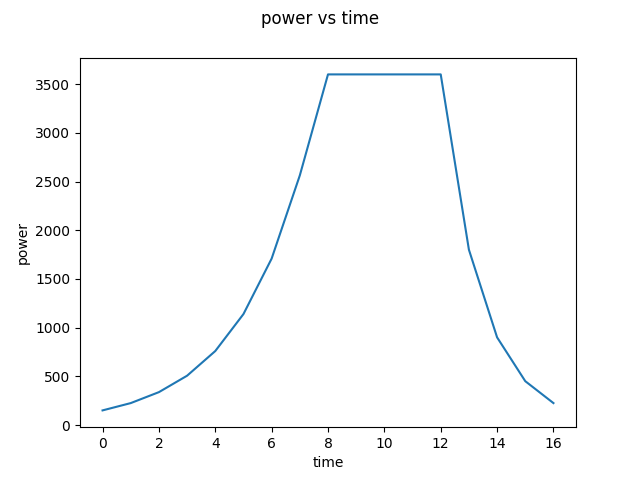
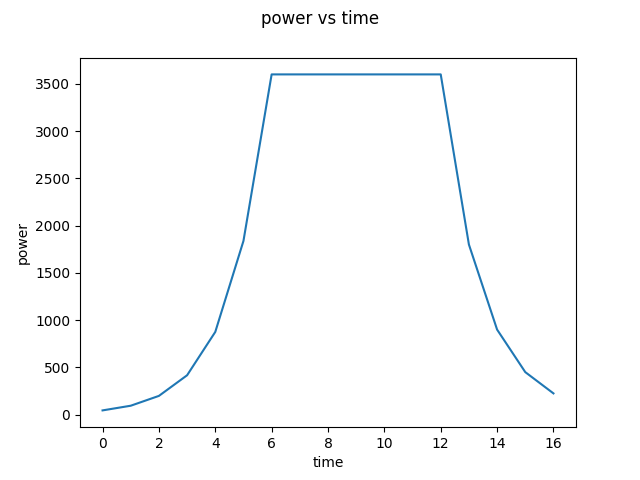
change battery models

diff --git a/del.py b/del.py
@@ -1,16 +1,34 @@
-import matplotlib.pyplot as pt
+import matplotlib.pyplot as plt
 import numpy as np
 import scipy.integrate as sp_int
 
 
-def plot(ys,xs,name,y_name,x_name='time'):
-    pt.plot(ys,xs)
-    pt.xlabel(x_name)
-    pt.ylabel(y_name)
-    pt.suptitle(f'{y_name} vs {x_name}')
-    pt.savefig(name,fmt='png')
-    pt.clf()
-    return
+def plot(xs,ys,x_name='Time',vlines = None):
+    num = len(ys)//2
+    (fig,axs) = plt.subplots(num,num)
+    i = 0
+    j = 0
+    for y,name in ys:
+        if i >= num:
+            i = 0
+            j+=1
+        axs[i,j].plot(xs,y)
+        if not vlines == None:
+            for v in vlines:
+                axs[i,j].axvline(v,linestyle='dotted',color='r')
+        axs[i,j].set_title(f'{name} vs {x_name}')
+        axs[i,j].set(xlabel=x_name,ylabel=name)
+        i+=1
+    # for a in axs.flat:
+        # a.set(xlabel=x_name)
+        
+    # pt.plot(xs,ys)
+    # pt.xlabel(x_name)
+    # pt.ylabel(y_name)
+    # pt.suptitle(f'{y_name} vs {x_name}')
+    # pt.savefig(name,fmt='png')
+    # pt.clf()
+    return plt
 def f(i,v):
     return i*v
 def charge(current,voltage,time): # returns (power, cap)
@@ -25,18 +43,28 @@ def update(c,v,soc,p,t):
     currs.append(c)
     return
 
-rate = 0.5
-ramp_rate = 0.5
-max_curr = 15 # amp
-min_curr = 0.03 * max_curr
-t_max = 1.5 * 60
-max_volt = 240
-time = list(map(lambda x: 0.5*x,list(range(0,4))))
-max_cap = max_curr * t_max
-time_step = 1   # minute
-t = 0
+
+# https://batteryuniversity.com/learn/article/electric_vehicle_ev
+rate = 0.1
+curr_steps = 4
+curr = 15 # amp
+min_curr = 2
+# t_max = 1.5
+max_volt = 230
+max_cap = 30 * 1000 # kwh
+# time_step = 0.9   # minute
+cutoff_soc = 0.75
+
+ramp_up_delay = 3 # time steps
+rampup_time = 5 # time stemps
+
+# time = t_max//time_step
+time = 100
+time = [x for x in range(0,int(time))]
 
 
+ramp_volts = max_volt/rampup_time
+print(f'ramp_volts: {ramp_volts}')
 
 SOCs = []
 ps  =[]
@@ -44,70 +72,68 @@ volts = []
 currs = []
 ts = []
 SOC = 0
-i = 1
-v = 10
+i = curr
+v = 5
+time_slots = []
 
+# =============== first phase ==============
 # charge
+print('\delay PHASE')
+# ramp up delay
+j = 0
+while j < ramp_up_delay:# and SOC < 0.3:
+    t = time.pop(0) # pop a time step
+    (power,cap) = charge(i,v,t)
+    SOC += (cap/max_cap)
+    update(i,v,SOC,power,t)
+    print(f'V: {v} I: {i} SOC:{int(SOC*100)}%')
+    j += 1
+    t = time.pop(0)
+
+print('\nramp up PHASE')
+# first phase CC (ramp up -- increase volts)
+j = 0
+while j < rampup_time:# and SOC < 0.45:
+    (power,cap) = charge(i,v,t)
+    SOC += (cap/max_cap)
+    update(i,v,SOC,power,t)
+    print(f'V: {v} I: {i} SOC:{int(SOC*100)}%')
+    v += ramp_volts
+    v = min(v,max_volt)
+    j += 1
+    t = time.pop(0)
+    
+print('-'*20,'\n2nd PHASE')
+time_slots.append(t)
+v = max_volt
+
+# second phase CV/CC (normal charge)
+while SOC < cutoff_soc: 
+    (power,cap) = charge(i,v,t)
+    SOC += (cap/max_cap)
+    update(i,v,SOC,power,t)
+    print(f'V: {v} I: {i} SOC:{int(SOC*100)}%')
+    t = time.pop(0)
+    
+time_slots.append(t-1)
+print('-'*20,'\n3nd PHASE')
+# third phase CV (ramp down -- decrease current)
 while SOC < 1:
-    # first phase CC (ramp up -- increase volts)
-    i = max_curr
-    while v < max_volt and SOC < 0.45:
-        (power,cap) = charge(i,v,t)
-        SOC = SOC + (cap/max_cap)
-        update(i,v,SOC,power,t)
-        print(f'V: {v} I: {i} SOC:{int(SOC*100)}%')
-        v += v * ramp_rate
-        t += time_step
-    print('-'*20)
-    v = max_volt
-    # second phase CV/CC (normal charge)
-    while SOC <= 0.65: 
-        (power,cap) = charge(i,v,t)
-        SOC = SOC+ (cap/max_cap)
-        update(i,v,SOC,power,t)
-        print(f'V: {v} I: {i} SOC:{int(SOC*100)}%')
-        t += time_step
-    print('-'*20)
-    # third phase CV (ramp down -- decrease current)
-    while i > min_curr and SOC < 1:
-        (power,cap) = charge(i,v,t)
-        SOC = SOC + (cap/max_cap)
-        update(i,v,SOC,power,t)
-        print(f'V: {v} I: {i} SOC:{int(SOC*100)}%')
-        i -= rate * i
-        t += time_step
-print(t,t_max)
+    # if i > min_curr:
+    i -= (rate * i)
+    i = max(i,min_curr)  
+    (power,cap) = charge(i,v,t)
+    SOC = SOC + (cap/max_cap)
+    SOC = min(SOC,1)
+    update(i,v,SOC,power,t)
+    print(f'V: {v} I: {i} SOC:{int(SOC*100)}%')
+    t = time.pop(0)
+    
+# print(t,t_max)
 
 
 
-
-
-    # SOC = 1 # to exit
-
-
-'''
-while t < t_max or i == min_curr:
-    if v < max_volt:
-        v = max_volt#e * v
-    if SOC >= 0.8:
-        i -= rate * i
-    p = f(i,v) # calculate power
-    q = f(i,t) # calculate cap
-    SOC = q/SOC_max
-    volts.append(v)
-    currs.append(i)
-    print(f'{int(SOC * 100)}%')
-    SOCs.append(SOC)
-    ps.append(p)
-    ts.append(t)
-
-
-    t = t+time_step
-    '''
-plot(ts,SOCs,'figs/SOC','SOC')
-
-plot(ts,ps,'figs/power','power')
-
-plot(ts,currs,'figs/current','current')
-
-plot(ts,volts,'figs/volt','voltage')
+ys = [(SOCs,'SOC (%)'),(ps,'power (W)'),(currs,'current (A)'),(volts,'voltage (V)')]
+plot(ts,ys,vlines = time_slots)
+plt.tight_layout()
+plt.savefig('figs/plot.png')

diff --git a/com.py b/com.py
@@ -1,0 +1,6 @@
+import serial
+import serial.tools.list_ports
+port = "/dev/pts/4"
+with serial.Serial(port) as ser:#,num,timeout=0) as ser:
+    x = ser.readline()
+    print(f'{x}')

diff --git a/agents/gen_agent.py b/agents/gen_agent.py
@@ -57,6 +57,7 @@ class generic_agent:
         i = 0
         while i < 5:
             t = time.pop(0)
+            
             print(t)
             i+=1
         

diff --git a/README.md b/README.md
@@ -10,4 +10,11 @@
 phases:
 1. pre-charge: current is kept low
 2. starts when the EV has < 10% of SOC of (10%)
-3. 
+
+
+
+
+### virtual ports:
+1. use `socat -d -d pty,raw,echo=0 pty,raw,echo=0` to create two virtual ports
+2. use one of the virtual ports as the DCMs end & other as the agent's end
+3. start DCM/mock on one while the agent on the other via `python3 com.py /dev/pts/#given_by_socat`
